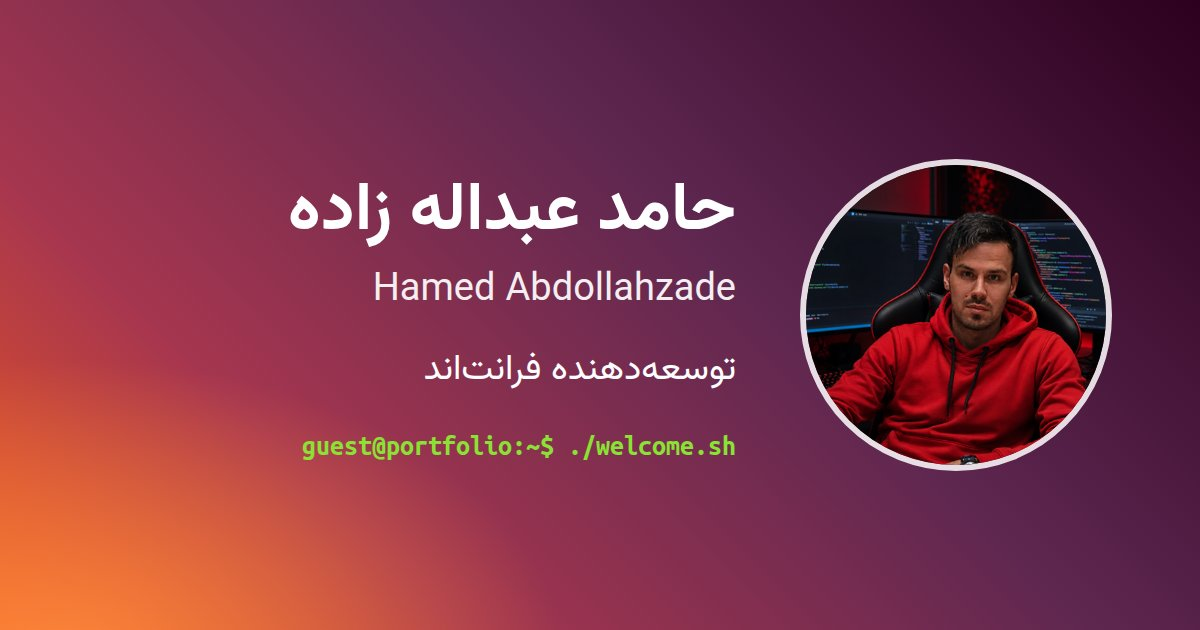
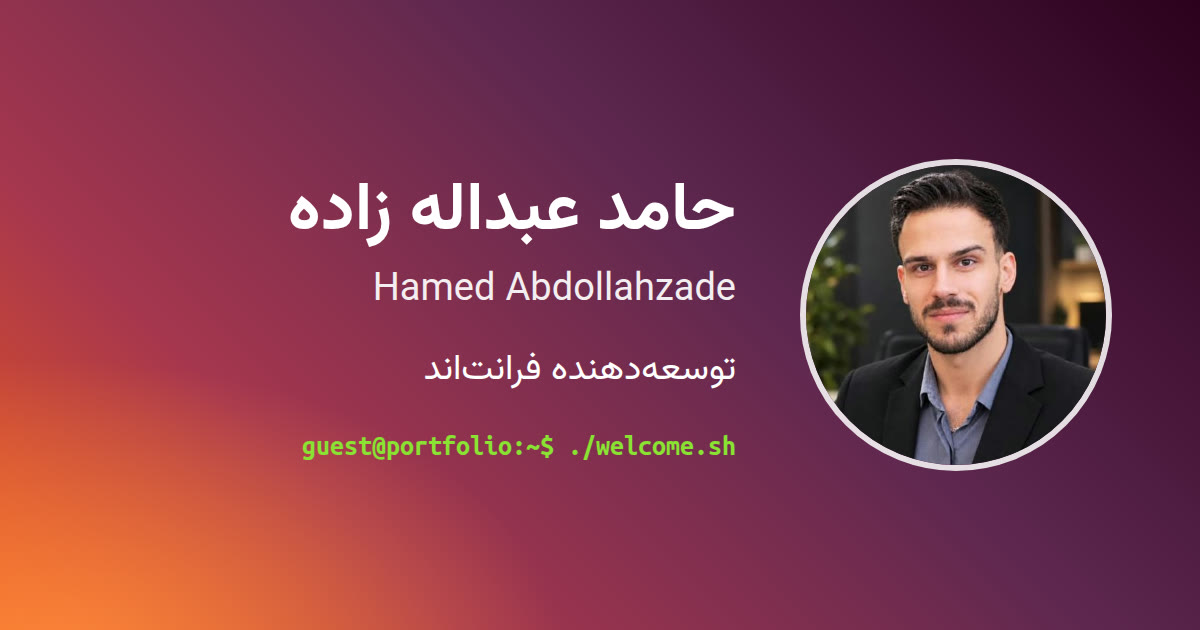
New profile photo, with SEO for Hamed Abdollahzade on the image
- Replace the old photo with the new one, saved as hamed-abdollahzade.jpg
- Rebuild the share image (og-image.jpg) with the new photo
- Alt text with the name in Persian and Latin on every place the photo shows,
  and as og:image:alt on share images
- schema.org ImageObject for the photo, used by the Person and ProfilePage
- Image sitemap entries for the photo and the share image
- Fix: every developer page claimed the site-wide #person id (Hamed); other
  developers now get an id of their own

diff --git a/lib/site.ts b/lib/site.ts
@@ -10,6 +10,19 @@ export const AUTHOR_EN = "Hamed Abdollahzade";
 /** Spellings people search for; used in keywords and structured data. */
 export const AUTHOR_NAMES = [AUTHOR, "حامد عبدالله زاده", "حامد عبدالهزاده", "حامد عبداللهزاده", AUTHOR_EN];
 export const AUTHOR_URL = `${SITE}/developers/hamed-abdollahzade/`;
+export const AUTHOR_PHOTO = `${SITE}/assets/images/hamed-abdollahzade.jpg`;
+const PHOTO_SIZE = 460;
+
+/** Alt text and caption for Hamed's photo, with his name in both scripts for image search. */
+export const photoAlt = (locale: Locale) =>
+    locale === "fa" ? `${AUTHOR} (${AUTHOR_EN})، طراح و توسعهدهندهی وب در مشهد` : `${AUTHOR_EN} (${AUTHOR}), web designer and developer in Mashhad`;
+
+/** schema.org ImageObject for Hamed's photo. */
+export const photoObject = (locale: Locale) => ({
+    "@type": "ImageObject", "@id": `${SITE}/#photo`, url: AUTHOR_PHOTO, contentUrl: AUTHOR_PHOTO,
+    width: PHOTO_SIZE, height: PHOTO_SIZE, caption: photoAlt(locale), name: locale === "fa" ? AUTHOR : AUTHOR_EN,
+    creditText: AUTHOR_EN, copyrightNotice: AUTHOR_EN,
+});
 export const ORG = `${BRAND.name} | وبینو دِو`;
 
 export const waLink = (text = "سلام، میخواهم دربارهی یک ایده/پروژه مشورت بگیرم.") =>
@@ -29,12 +42,14 @@ interface MetaInput {
     /** Set when the page exists in both languages, so hreflang alternates are emitted. */
     translated?: boolean;
     image?: string;
+    /** Alt text of the share image; defaults to the site image showing Hamed. */
+    imageAlt?: string;
     type?: "website" | "article" | "profile";
     keywords?: string[];
 }
 
 /** Title, description, canonical, hreflang, Open Graph and Twitter tags for a page. */
-export function pageMeta({title, description, path, locale = "fa", translated = false, image = OG_IMAGE, type = "website", keywords}: MetaInput): Metadata {
+export function pageMeta({title, description, path, locale = "fa", translated = false, image = OG_IMAGE, imageAlt, type = "website", keywords}: MetaInput): Metadata {
     const url = `${SITE}${localePath(locale, path)}`;
     const alternates: Metadata["alternates"] = {canonical: url};
     if (translated) {
@@ -44,12 +59,16 @@ export function pageMeta({title, description, path, locale = "fa", translated = 
             "x-default": `${SITE}${localePath("fa", path)}`,
         };
     }
+    // Only the site image has a known size; other images are sent without one.
+    const ogImage = image === OG_IMAGE
+        ? {url: image, width: 1200, height: 630, alt: imageAlt ?? photoAlt(locale)}
+        : {url: image, alt: imageAlt ?? title};
     return {
         title: {absolute: title},
         description,
         keywords,
         alternates,
-        openGraph: {type, title, description, url, siteName: ORG, locale: OG_LOCALE[locale], images: [{url: image, width: 1200, height: 630}]},
-        twitter: {card: "summary_large_image", title, description, images: [image]},
+        openGraph: {type, title, description, url, siteName: ORG, locale: OG_LOCALE[locale], images: [ogImage]},
+        twitter: {card: "summary_large_image", title, description, images: [ogImage]},
     };
 }

diff --git a/views/DeveloperView.tsx b/views/DeveloperView.tsx
@@ -7,7 +7,7 @@ import Shell from "@/components/Shell";
 import {getDevelopers} from "@/data/localized";
 import {localePath} from "@/lib/locale";
 import type {Locale} from "@/lib/locale";
-import {SITE} from "@/lib/site";
+import {AUTHOR_NAMES, SITE, photoAlt, photoObject} from "@/lib/site";
 import {UI} from "@/lib/ui";
 
 /** One developer profile in the given language. */
@@ -16,6 +16,9 @@ export default function DeveloperView({locale, slug}: {locale: Locale; slug: str
     const d = getDevelopers(locale).find((x) => x.slug === slug);
     if (!d) notFound();
     const url = `${SITE}${localePath(locale, `/developers/${slug}/`)}`;
+    // Only Hamed is the site-wide person (#person); every other developer gets an id of their own.
+    const isAuthor = slug === "hamed-abdollahzade";
+    const personId = isAuthor ? `${SITE}/#person` : `${url}#person`;
     const snippet = [
         "const developer = {",
         `  name: "${d.nameEn}",`,
@@ -30,10 +33,11 @@ export default function DeveloperView({locale, slug}: {locale: Locale; slug: str
             <JsonLd data={{
                 "@context": "https://schema.org",
                 "@graph": [
-                    {"@type": "ProfilePage", "@id": `${url}#page`, url, inLanguage: locale, mainEntity: {"@id": `${SITE}/#person`}},
+                    {"@type": "ProfilePage", "@id": `${url}#page`, url, inLanguage: locale, mainEntity: {"@id": personId}, ...(isAuthor && {primaryImageOfPage: {"@id": `${SITE}/#photo`}})},
+                    ...(isAuthor ? [photoObject(locale)] : []),
                     {
-                        "@type": "Person", "@id": `${SITE}/#person`, name: d.name, alternateName: d.nameEn, jobTitle: "Frontend Developer",
-                        image: d.photo ? `${SITE}/${d.photo}` : undefined, url, description: d.bio, knowsAbout: d.skills, worksFor: {"@id": `${SITE}/#org`}, sameAs: d.links.map((l) => l.url),
+                        "@type": "Person", "@id": personId, name: d.name, alternateName: isAuthor ? AUTHOR_NAMES.filter((n) => n !== d.name) : d.nameEn, jobTitle: d.role,
+                        image: isAuthor ? {"@id": `${SITE}/#photo`} : d.photo ? `${SITE}/${d.photo}` : undefined, url, description: d.bio, knowsAbout: d.skills, worksFor: {"@id": `${SITE}/#org`}, sameAs: d.links.map((l) => l.url),
                     },
                     {"@type": "BreadcrumbList", itemListElement: [
                         {"@type": "ListItem", position: 1, name: "Webino-Dev", item: `${SITE}${localePath(locale, "/")}`},
@@ -44,7 +48,7 @@ export default function DeveloperView({locale, slug}: {locale: Locale; slug: str
             }}/>
             <div className="profile">
                 <aside className="card profile-side">
-                    <Avatar name={d.name} photo={d.photo} size={128} priority/>
+                    <Avatar name={d.name} photo={d.photo} size={128} priority alt={isAuthor ? photoAlt(locale) : `${d.name}، ${d.role}`}/>
                     <h1 className="block-title" style={{fontSize: 24}}>{d.name}</h1>
                     <div className="dev-role">{d.role}</div>
                     <ul className="tags" style={{justifyContent: "center"}}>{d.skills.map((s) => <li key={s}>{s}</li>)}</ul>

diff --git a/views/HomeView.tsx b/views/HomeView.tsx
@@ -11,7 +11,7 @@ import {getBrand, getCourseCopy, getCourses, getDevelopers, getFaq, getProcess, 
 import {getPosts} from "@/lib/blog";
 import {localePath} from "@/lib/locale";
 import type {Locale} from "@/lib/locale";
-import {AUTHOR, AUTHOR_EN, AUTHOR_NAMES, AUTHOR_URL, OG_IMAGE, SITE, summarize, waLink} from "@/lib/site";
+import {AUTHOR, AUTHOR_EN, AUTHOR_NAMES, AUTHOR_URL, OG_IMAGE, SITE, photoAlt, photoObject, summarize, waLink} from "@/lib/site";
 import {UI} from "@/lib/ui";
 
 const SAME_AS = ["https://github.com/hamedAbdollahzade", "https://www.linkedin.com/in/hamed-abdollahzade"];
@@ -44,11 +44,12 @@ function graph(locale: Locale) {
                 alternateName: AUTHOR_NAMES.filter((n) => n !== (locale === "fa" ? AUTHOR : AUTHOR_EN)),
                 jobTitle: locale === "fa" ? "طراح و توسعهدهندهی وب" : "Web designer and frontend developer",
                 description: t.home.meta.description,
-                image: `${SITE}/assets/images/me.jpg`, url: AUTHOR_URL, mainEntityOfPage: `${SITE}${localePath(locale, "/")}`,
+                image: {"@id": `${SITE}/#photo`}, url: AUTHOR_URL, mainEntityOfPage: `${SITE}${localePath(locale, "/")}`,
                 homeLocation: {"@type": "Place", name: locale === "fa" ? "مشهد، ایران" : "Mashhad, Iran"},
                 knowsAbout: ["Web design", "طراحی سایت", "Frontend development", "React", "Next.js", "TypeScript", "PWA", "Admin panels", "Artificial intelligence"],
                 worksFor: {"@id": `${SITE}/#org`}, sameAs: SAME_AS,
             },
+            photoObject(locale),
             {"@type": "WebSite", "@id": `${SITE}/#website`, url: `${SITE}/`, name: "Webino-Dev", alternateName: AUTHOR_NAMES, inLanguage: ["fa", "en"], publisher: {"@id": `${SITE}/#org`}, author: {"@id": `${SITE}/#person`}},
         ],
     };
@@ -143,7 +144,7 @@ export default function HomeView({locale}: {locale: Locale}) {
                     {getDevelopers(locale).map((d) => (
                         <Link className="dev-card" href={to(`/developers/${d.slug}/`)} key={d.slug}>
                             <div className="dev-top">
-                                <Avatar name={d.name} photo={d.photo} size={72}/>
+                                <Avatar name={d.name} photo={d.photo} size={72} alt={d.slug === "hamed-abdollahzade" ? photoAlt(locale) : `${d.name}، ${d.role}`}/>
                                 <div><h3>{d.name}</h3><div className="dev-role">{d.role}</div></div>
                             </div>
                             <p>{summarize(d.bio, 150)}</p>

diff --git a/app/sitemap.ts b/app/sitemap.ts
@@ -4,16 +4,17 @@ import {SERVICES} from "@/data/services";
 import {DEVELOPERS} from "@/data/developers";
 import {getPosts} from "@/lib/blog";
 import {localePath} from "@/lib/locale";
-import {SITE} from "@/lib/site";
+import {AUTHOR_PHOTO, OG_IMAGE, SITE} from "@/lib/site";
 
 export const dynamic = "force-static";
 
 /** One entry per translated page, with hreflang alternates for both languages. */
-function bilingual(path: string, priority: number, lastModified: Date): MetadataRoute.Sitemap[number] {
+function bilingual(path: string, priority: number, lastModified: Date, images?: string[]): MetadataRoute.Sitemap[number] {
     return {
         url: `${SITE}${localePath("fa", path)}`,
         lastModified,
         priority,
+        ...(images && {images}),
         alternates: {languages: {fa: `${SITE}${localePath("fa", path)}`, en: `${SITE}${localePath("en", path)}`}},
     };
 }
@@ -21,16 +22,16 @@ function bilingual(path: string, priority: number, lastModified: Date): Metadata
 export default function sitemap(): MetadataRoute.Sitemap {
     const now = new Date();
     const pages: MetadataRoute.Sitemap = [
-        bilingual("/", 1, now),
+        bilingual("/", 1, now, [AUTHOR_PHOTO, OG_IMAGE]),
         ...SERVICES.map((s) => bilingual(`/services/${s.slug}/`, 0.9, now)),
         bilingual("/about/", 0.8, now),
         bilingual("/developers/", 0.8, now),
-        ...DEVELOPERS.map((d) => bilingual(`/developers/${d.slug}/`, 0.7, now)),
+        ...DEVELOPERS.map((d) => bilingual(`/developers/${d.slug}/`, 0.7, now, d.photo ? [`${SITE}/${d.photo}`] : undefined)),
         bilingual("/blog/", 0.8, now),
         ...PROJECTS.map((p) => bilingual(`/projects/${p.slug}/`, 0.7, now)),
     ];
     // English URLs listed on their own as well, so crawlers that ignore alternates still find them.
-    const englishOnly: MetadataRoute.Sitemap = pages.map((entry) => ({url: entry.url.replace(SITE, `${SITE}/en`).replace(`${SITE}/en/`, `${SITE}/en/`), lastModified: now, priority: entry.priority}));
+    const englishOnly: MetadataRoute.Sitemap = pages.map((entry) => ({url: entry.url.replace(SITE, `${SITE}/en`).replace(`${SITE}/en/`, `${SITE}/en/`), lastModified: now, priority: entry.priority, ...(entry.images && {images: entry.images})}));
     return [
         ...pages,
         ...englishOnly,

diff --git a/data/developers.ts b/data/developers.ts
@@ -23,7 +23,7 @@ export const DEVELOPERS: Developer[] = [
         name: "حامد عبداله زاده",
         nameEn: "Hamed Abdollahzade",
         role: "مؤسس · توسعهدهنده فرانتاند",
-        photo: "assets/images/me.jpg",
+        photo: "assets/images/hamed-abdollahzade.jpg",
         bio: "توسعهدهنده فرانتاند در سطح میدلول؛ تجربهام از پنلهای سازمانی CRM و ERP تا رابطهای کاربری دستگاههای وندینگ را در بر میگیرد. با React، Next.js، TypeScript و Vue کار میکنم و تمرکزم این روزها روی برنامههای آفلاین، PWA و ارتباط رابط کاربری با سختافزار است. بخش مهمی از مسیر یادگیریام را در دورهی فراوین گذراندهام و از اساتیدی مثل مجتبی قاسمزاده تهرانی و عرفان تقینیا چیزهای زیادی یاد گرفتهام.",
         skills: ["React", "Next.js", "TypeScript", "Vue", "Redux Toolkit", "PWA", "REST API", "WebSocket"],
         links: [

diff --git a/views/DevelopersView.tsx b/views/DevelopersView.tsx
@@ -5,7 +5,7 @@ import Shell from "@/components/Shell";
 import {getDevelopers} from "@/data/localized";
 import {localePath} from "@/lib/locale";
 import type {Locale} from "@/lib/locale";
-import {SITE, summarize} from "@/lib/site";
+import {SITE, summarize, photoAlt} from "@/lib/site";
 import {UI} from "@/lib/ui";
 
 /** The developers list in the given language. */
@@ -33,7 +33,7 @@ export default function DevelopersView({locale}: {locale: Locale}) {
                 {getDevelopers(locale).map((d) => (
                     <Link className="dev-card" href={localePath(locale, `/developers/${d.slug}/`)} key={d.slug}>
                         <div className="dev-top">
-                            <Avatar name={d.name} photo={d.photo} size={72}/>
+                            <Avatar name={d.name} photo={d.photo} size={72} alt={d.slug === "hamed-abdollahzade" ? photoAlt(locale) : `${d.name}، ${d.role}`}/>
                             <div><h2 style={{fontSize: 20, fontWeight: 800}}>{d.name}</h2><div className="dev-role">{d.role}</div></div>
                         </div>
                         <p>{summarize(d.bio, 160)}</p>

diff --git a/components/Avatar.tsx b/components/Avatar.tsx
@@ -1,7 +1,8 @@
 import Image from "next/image";
 
 /** Profile photo, or the first letter of the name on a soft circle when there is no photo yet. */
-export default function Avatar({name, photo, size, priority}: {name: string; photo?: string; size: number; priority?: boolean}) {
-    if (photo) return <Image className="avatar" src={`/${photo}`} alt={name} width={size} height={size} priority={priority}/>;
+/** `alt` describes the photo for search engines; it defaults to the name. */
+export default function Avatar({name, photo, size, priority, alt}: {name: string; photo?: string; size: number; priority?: boolean; alt?: string}) {
+    if (photo) return <Image className="avatar" src={`/${photo}`} alt={alt ?? name} width={size} height={size} priority={priority}/>;
     return <span className="avatar avatar--letter" style={{width: size, height: size, fontSize: size * 0.42}} aria-hidden="true">{[...name][0]}</span>;
 }

diff --git a/views/meta.ts b/views/meta.ts
@@ -36,7 +36,8 @@ export function developerMeta(locale: Locale, slug: string): Metadata {
         locale,
         translated: true,
         type: "profile",
-        image: d.photo ? `${SITE}/${d.photo}` : undefined,
+        // Hamed's page shares the site image (his photo and name at 1200x630); others share their photo.
+        image: slug === "hamed-abdollahzade" ? undefined : d.photo ? `${SITE}/${d.photo}` : undefined,
         keywords: [d.name, d.nameEn, ...d.skills],
     });
 }

diff --git a/scripts/og-image.html b/scripts/og-image.html
@@ -42,7 +42,7 @@
 </style>
 </head>
 <body>
-    <img src="../assets/images/me.jpg" alt=""/>
+    <img src="../assets/images/hamed-abdollahzade.jpg" alt=""/>
     <div>
         <h1>حامد عبداله زاده</h1>
         <p class="latin">Hamed Abdollahzade</p>
